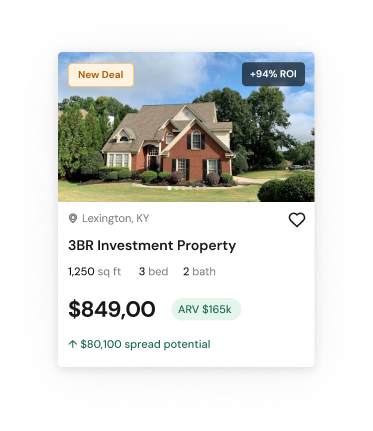
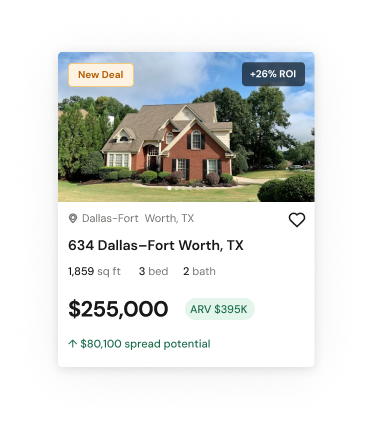
Replace hero card image and make pin heartbeat animation more prominent

diff --git a/app/globals.css b/app/globals.css
@@ -21,24 +21,26 @@ h1, h2, h3, h4, h5, h6 {
 
 /* Hero pin glow / heartbeat pulse animations — pins stay fixed, fade+glow in place */
 @keyframes heroPinFloat1 {
-  0%, 100% { opacity: 1; filter: drop-shadow(0 0 0px rgba(208,56,57,0)); }
-  50% { opacity: 0.7; filter: drop-shadow(0 0 8px rgba(208,56,57,0.6)); }
+  0%, 100% { opacity: 1; transform: scale(1); filter: drop-shadow(0 0 0px rgba(208,56,57,0)); }
+  40% { opacity: 0.25; transform: scale(0.88); filter: drop-shadow(0 0 18px rgba(208,56,57,0.9)); }
+  60% { opacity: 0.2; transform: scale(0.85); filter: drop-shadow(0 0 22px rgba(208,56,57,1)); }
 }
 @keyframes heroPinFloat2 {
-  0%, 100% { opacity: 0.85; filter: drop-shadow(0 0 0px rgba(208,56,57,0)); }
-  50% { opacity: 1; filter: drop-shadow(0 0 10px rgba(208,56,57,0.5)); }
+  0%, 100% { opacity: 0.3; transform: scale(0.88); filter: drop-shadow(0 0 16px rgba(208,56,57,0.85)); }
+  50% { opacity: 1; transform: scale(1); filter: drop-shadow(0 0 0px rgba(208,56,57,0)); }
 }
 @keyframes heroPinFloat3 {
-  0%, 100% { opacity: 1; filter: drop-shadow(0 0 0px rgba(208,56,57,0)); }
-  50% { opacity: 0.65; filter: drop-shadow(0 0 12px rgba(208,56,57,0.7)); }
+  0%, 100% { opacity: 1; transform: scale(1); filter: drop-shadow(0 0 0px rgba(208,56,57,0)); }
+  45% { opacity: 0.2; transform: scale(0.86); filter: drop-shadow(0 0 20px rgba(208,56,57,0.95)); }
+  55% { opacity: 0.15; transform: scale(0.84); filter: drop-shadow(0 0 24px rgba(208,56,57,1)); }
 }
 @keyframes heroPinFloat4 {
-  0%, 100% { opacity: 0.9; filter: drop-shadow(0 0 0px rgba(208,56,57,0)); }
-  50% { opacity: 1; filter: drop-shadow(0 0 8px rgba(208,56,57,0.55)); }
+  0%, 100% { opacity: 0.25; transform: scale(0.9); filter: drop-shadow(0 0 14px rgba(208,56,57,0.8)); }
+  50% { opacity: 1; transform: scale(1); filter: drop-shadow(0 0 0px rgba(208,56,57,0)); }
 }
 @keyframes heroShadowPulse {
-  0%, 100% { opacity: 0.4; transform: scale(1); }
-  50% { opacity: 0.15; transform: scale(0.7); }
+  0%, 100% { opacity: 0.5; transform: scale(1); }
+  50% { opacity: 0.05; transform: scale(0.5); }
 }
 @keyframes heroCardFloat {
   0%, 100% { opacity: 1; box-shadow: 0 4px 16px rgba(0,0,0,0.08); }
